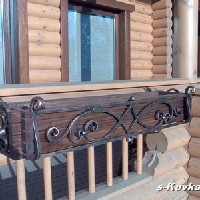
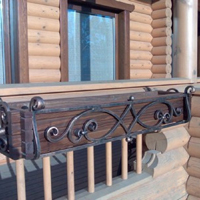
поправил фотки, добавил трубку с обратным звонком

diff --git a/static/header.php b/static/header.php
@@ -1,13 +1,15 @@
 <div id="header">
 
 	<div id="recall_form" class="popup">
-		<input type="text" value="Имя"><br>
-		<input type="text" value="Телефон"><br>
+		<p style="color:white; text-align: left">
+		Мы вам перезвоним.:) Ежедневно с 10:00 до 20:00</p>
+		<input id="recall_name" type="text" value="Имя"><br>
+		<input id="recall_phone" type="text" value="Телефон"><br>
 		<input id="recall_btn" type="button" value="Отправить" onclick="recall();">
 	</div>
 
 	<div id="recall_success" class="popup">
-		В ближейшее время вам перезвонят!
+		<p style="color: white">Спасибо. В ближайшее время вам перезвонят!</p>
 	</div>
 
 	<div id="map" class="popup" style="width: 800px; margin-left: -400px; top: 10%;">
@@ -75,6 +77,28 @@
 
 <script>
 	$(document).ready(function() {
+
+		$('#recall_name').on('focus', function () {
+			if($(this).val() == 'Имя') {
+				$(this).val('');
+			}
+		});
+		$('#recall_name').on('focusout', function () {
+			if($(this).val() == '') {
+				$(this).val('Имя');
+			}
+		});
+
+		$('#recall_phone').on('focus', function () {
+			if($(this).val() == 'Телефон') {
+				$(this).val('');
+			}
+		});
+		$('#recall_phone').on('focusout', function () {
+			if($(this).val() == '') {
+				$(this).val('Телефон');
+			}
+		});
 	});
 
 	function hidePopup(){

diff --git a/pages/home.php b/pages/home.php
@@ -10,7 +10,7 @@ $ad_text = $new_controller->getNewsDecorator()->renderReklamniyBlock($new_rows);
 
 <div class="container">
 	<p>Если вы ищете, где можно заказать навес, ворота, лестницу или другое кованное изделие
-	любой сложности - вы на парвильном пути. Компания  «СУС-СТРОЙ» выполнит работу качественно и в срок .
+	любой сложности - вы на правильном пути. Компания  «СУС-СТРОЙ» выполнит работу качественно и в срок .
 	<a href = "price_list">Наши цены</a> доступны, а <a href = "examples">галлерея выполненных заказов</a>,
 	содержит более 500 примеров, что лишний раз подтверждает наш богатый опыт в сфере изготовления кованных изделий.</p>
 	<h2>Наши услуги</h2>

diff --git a/index.php b/index.php
@@ -33,6 +33,17 @@ class App {
 		<div id="mask" onclick="hidePopup();"></div>
 		<?php include('static/header.php'); ?>	
 		<div id="content">
+			<div style="
+				    width: 40px;
+					height: 40px;
+					position: fixed!important;
+					bottom: 150px;
+					opacity: 0.8;
+					z-index: 100!important;
+					left: 10px;
+					cursor: pointer">
+				<a onclick="show_recall();"><img src="/images/phone.png" /></a>
+			</div>
 			<?php include('engine/redirect.php'); ?>
 		</div>
 		<div id="wrapper_push"></div>
